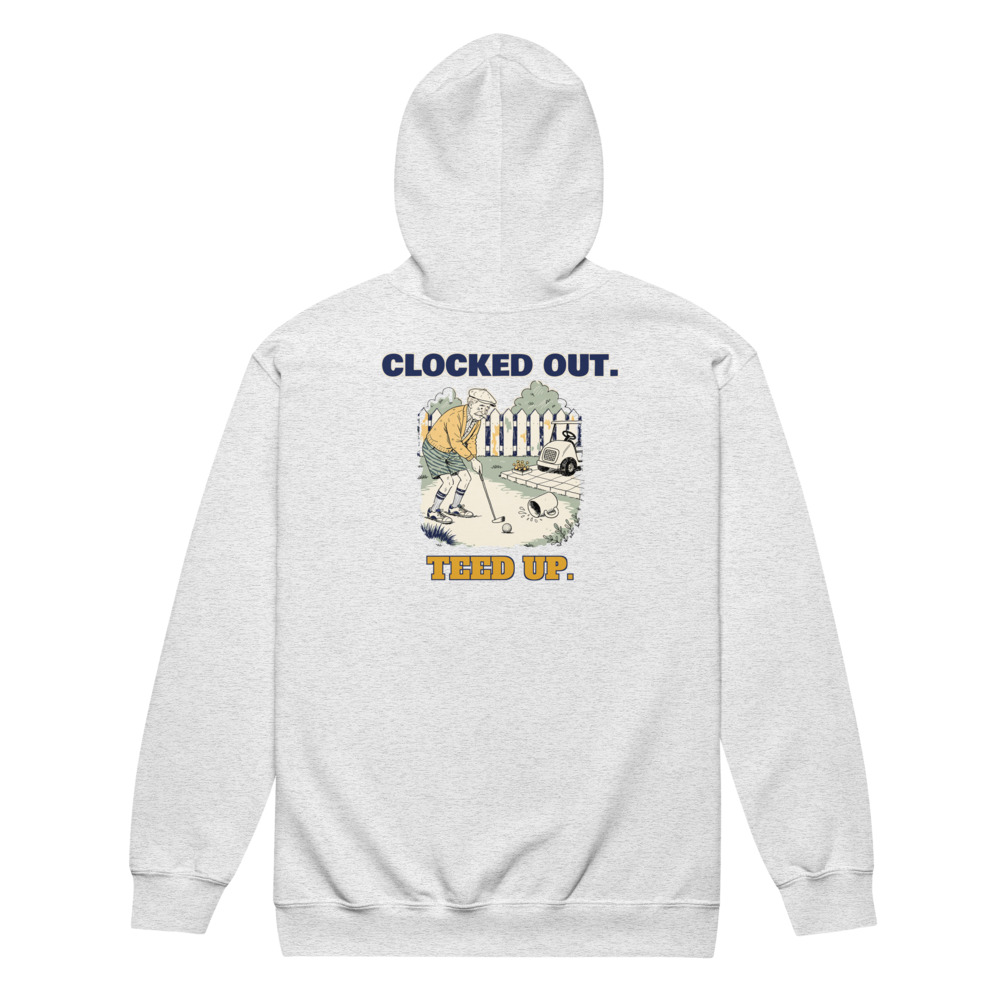
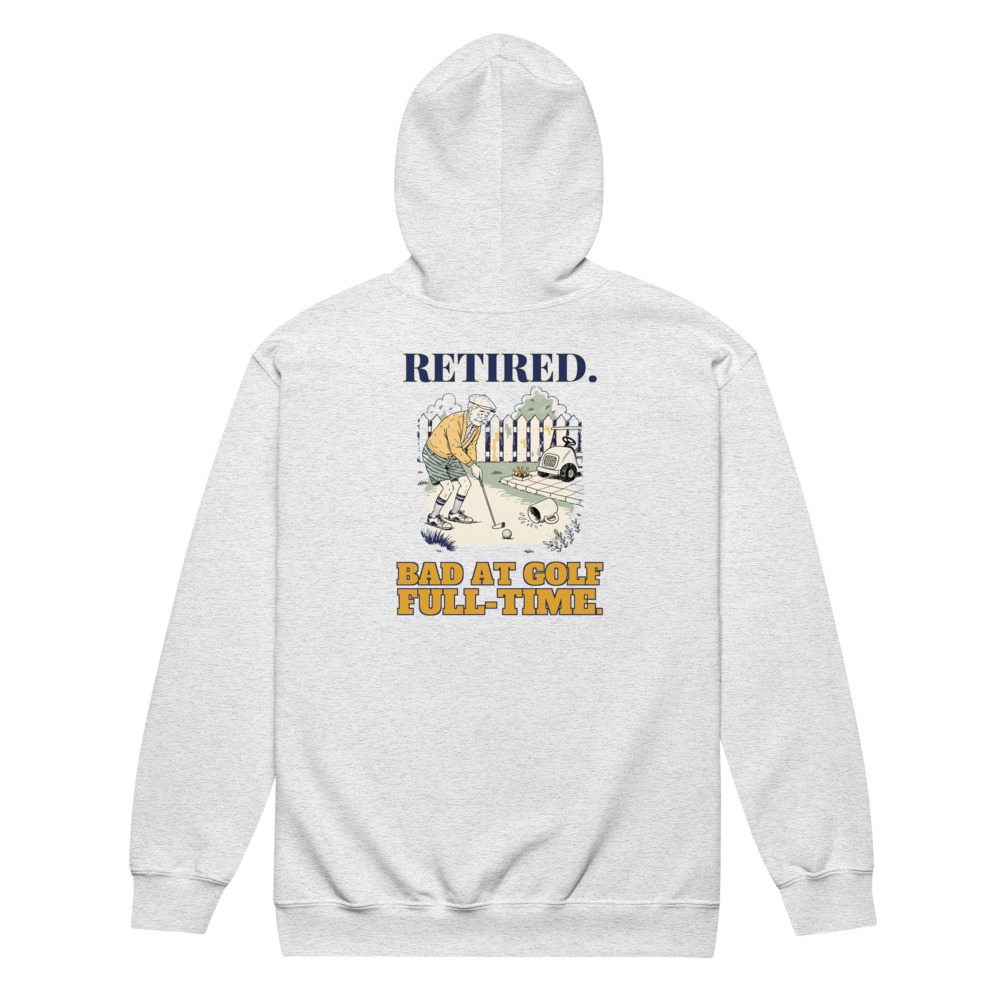
[C] review 506 (redo)
Claude-Session: https://claude.ai/code/session_01CCHcDj8LcJJ8qUPtKE3cvn

Changed region(s): [[0.372, 0.341, 0.62, 0.62]]

diff --git a/designs/c506/make3.py b/designs/c506/make3.py
@@ -1,0 +1,38 @@
+from PIL import Image, ImageDraw, ImageFont, ImageFilter
+FD='designs/fonts/'
+RED=(196,52,44,255); NAVY=(28,40,84,255); MUST=(226,164,40,255); CREAM=(246,236,214,255); BROWN=(58,36,24,255)
+def line(text,font,wfrac,W,fill,key,kw=31,track=0,var=None):
+    def mk(sz):
+        f=ImageFont.truetype(FD+font,sz)
+        if var: f.set_variation_by_axes(var)
+        return f
+    f=mk(800); adv=[f.getlength(c) for c in text]
+    tot=sum(adv)+track*(len(text)-1); size=int(800*W*wfrac/tot)
+    f=mk(size); adv=[f.getlength(c) for c in text]; tr=int(track*size/800)
+    asc,desc=f.getmetrics(); tot=int(sum(adv)+tr*(len(text)-1))
+    pad=80; im=Image.new('RGBA',(tot+2*pad,asc+desc+2*pad),(0,0,0,0))
+    def draw(layer,col):
+        d=ImageDraw.Draw(layer); x=pad
+        for c,a in zip(text,adv): d.text((x,pad),c,font=f,fill=col); x+=a+tr
+    k=Image.new('L',im.size,0); d=ImageDraw.Draw(k); x=pad
+    for c,a in zip(text,adv): d.text((x,pad),c,font=f,fill=255); x+=a+tr
+    k=k.filter(ImageFilter.MaxFilter(kw)); im.paste(Image.new('RGBA',im.size,key),(0,0),k)
+    draw(im,fill)
+    return im.crop(im.getbbox())
+def build(tag,c1,k1,bgc):
+    art=Image.open('designs/c506/art_rag.png').convert('RGBA'); W=art.width
+    h1=line("RETIRED.",'PlayfairDisplay[wght].ttf',0.80,W,c1,k1,kw=29,var=[900])
+    pa=line("BAD AT GOLF",'AlfaSlabOne-Regular.ttf',0.84,W,MUST,NAVY,kw=27)
+    pb=line("FULL-TIME.",'AlfaSlabOne-Regular.ttf',0.84,W,MUST,NAVY,kw=27)
+    # same type size for both punch lines: scale the wider one down to match the narrower line's size
+    print(tag,'headline px',h1.width,'punch px',pa.width,pb.width,'heights',h1.height,pa.height,pb.height)
+    g=40; P=Image.new('RGBA',(W,pa.height+30+pb.height),(0,0,0,0)); P.alpha_composite(pa,((W-pa.width)//2,0)); P.alpha_composite(pb,((W-pb.width)//2,pa.height+30))
+    H=h1.height+g+art.height+g+P.height
+    out=Image.new('RGBA',(W,H),(0,0,0,0))
+    out.alpha_composite(h1,((W-h1.width)//2,0)); y=h1.height+g
+    out.alpha_composite(art,(0,y)); y+=art.height+g
+    out.alpha_composite(P,(0,y))
+    out.save(f'docs/print-files/506-v3-bad-{tag}.png'); print(out.size,H/W)
+    bg=Image.new('RGBA',out.size,bgc); bg.alpha_composite(out); bg.convert('RGB').resize((600,int(600*H/W))).save(f'designs/c506/prev3_{tag}.png')
+build('ash',NAVY,CREAM,(200,200,200,255))
+build('navy',CREAM,NAVY,(38,50,88,255))

diff --git a/docs/pipeline/506-golf-zip-hoodie-retired-working-on-my-short-game.md b/docs/pipeline/506-golf-zip-hoodie-retired-working-on-my-short-game.md
@@ -1,4 +1,4 @@
-status: BUILDING [C] 2026-10-20 07:00
+status: REVIEW
 lane: C
 type: new
 id: 506
@@ -40,3 +40,4 @@ kd: 28
   1. R3.7.8 / builder card 7h: your log says TEED UP. is 60% of CLOCKED OUT.'s width; widen it to full width.
   2. R4.1: the backyard scene still ends in a rounded-rectangle silhouette (smooth left and right sides) on both mockups; break the side edges with the fence, trees and grass and run ragged-edge.py (this is the same note as the 2026-10-18 send-back).
   3. R3.13: CLOCKED OUT. / TEED UP. is a label, not a twist (no contrast, nobody is in on a joke). Compare it with 'Not Cheating. Improving My Lie.' and write 5 more; your own 'LONG RETIREMENT. SHORT GAME.' is closer to the bar.
+- 2026-10-20 07:13 UTC builder [C]: REDO round 2 per the director's 06:40 note. (1) Punch width: BAD AT GOLF / FULL-TIME. set in Alfa Slab One; measured ink widths headline 2597 px / punch 2749 px and 2734 px (105% and 105%). (2) R4.1: the backyard scene edge was re-broken with scripts/ragged-edge.py (depth 110, seed 7, whole scene; first try at depth 230 ate the cardigan so I used the default): the left and right sides, top and bottom now end in worn, uneven edges (checked on both mockups at phone size); chest copy file 1088633068 unchanged. (3) R3.13 new line, compared with Not Cheating. Improving My Lie. and Sorry About Your Windshield.: "RETIRED. / BAD AT GOLF FULL-TIME." (kept: self-roast with a contrast, retiree in on the joke; he now has all day to be bad at it). Other candidates: "LONG RETIREMENT. SHORT GAME." (the director's pick of my earlier list, kept as the runner-up: wordplay but needs golf terms), "NO BOSS. NO TEE TIMES. STILL BAD.", "MY SCORE IS MY AGE NOW.", "CLOCKED OUT. TEED UP." (round 1, a label). Headline RETIRED. Playfair Display Black 80% of the print width; Light-file (R5.3.8): Ash file 1090222550 (headline navy, cream keyline), Navy file 1090222579 (headline cream, navy keyline), punch mustard with a navy keyline on both; docs/print-files/506-v3-bad-ash.png / -navy.png. Back 3263 x 3498, BW 1650 BT 225, 12/12 relinked (verified on the API before REVIEW). Both back mockups replaced in place, read at phone size. Copy, FAQ and SEO rewritten for the new line. fal $0.

diff --git a/docs/intake-log.md b/docs/intake-log.md
@@ -1,4 +1,5 @@
 RUNNING lane C since 2026-10-20 07:00 UTC
+2026-10-20 07:13 UTC — [C] Builder run: redid #506 Men's Golf retired zip hoodie round 2 (director note: RETIRED. / BAD AT GOLF FULL-TIME., punch 2749/2734 px vs headline 2597 px, scene edge ragged-edge.py, Ash file 1090222550 + Navy file 1090222579, BW 1650 BT 225, 12/12 relinked, back mockups replaced, copy + SEO updated). REVIEW. fal $0.
 2026-10-20 06:47 UTC — [B] Run summary: REVIEW #280 #362 #404 #440 (punch width), #318 #396 #513 #519 (crew punch width), #455 (Lost My Gelt), #469 (Busy at a Good Part, embroidered), #697 (new Outdoorsy in Theory cropped hoodie). #485 was finished by a second lane B session. #498 left for director re-grade (R3.14). fal about $0.16. Lock released.
 2026-10-20 06:57 UTC — [A] Builder run: redid #361 Men's Grandpa I Fix Things After Naps crewneck (line+type: ON THE LIST SINCE 2009. / AFTER MY NAP., same napping grandpa art, Bowlby One full width, FW 1650 TOP 75, Sand file 1090217238 / Navy file 1090217265, 12/12 relinked, 2 fronts replaced in place, copy updated, plain product shot). REVIEW. fal $0.
 2026-10-20 06:58 UTC — [B] Builder run: redid #467 Unisex Embroidered anxiety crewneck as the twin of #466 (REPLAYING / WHAT I SAID / IN 2014., Sand #333366 + Navy #FFFFFF, 12/12 synced). REVIEW. fal $0.
